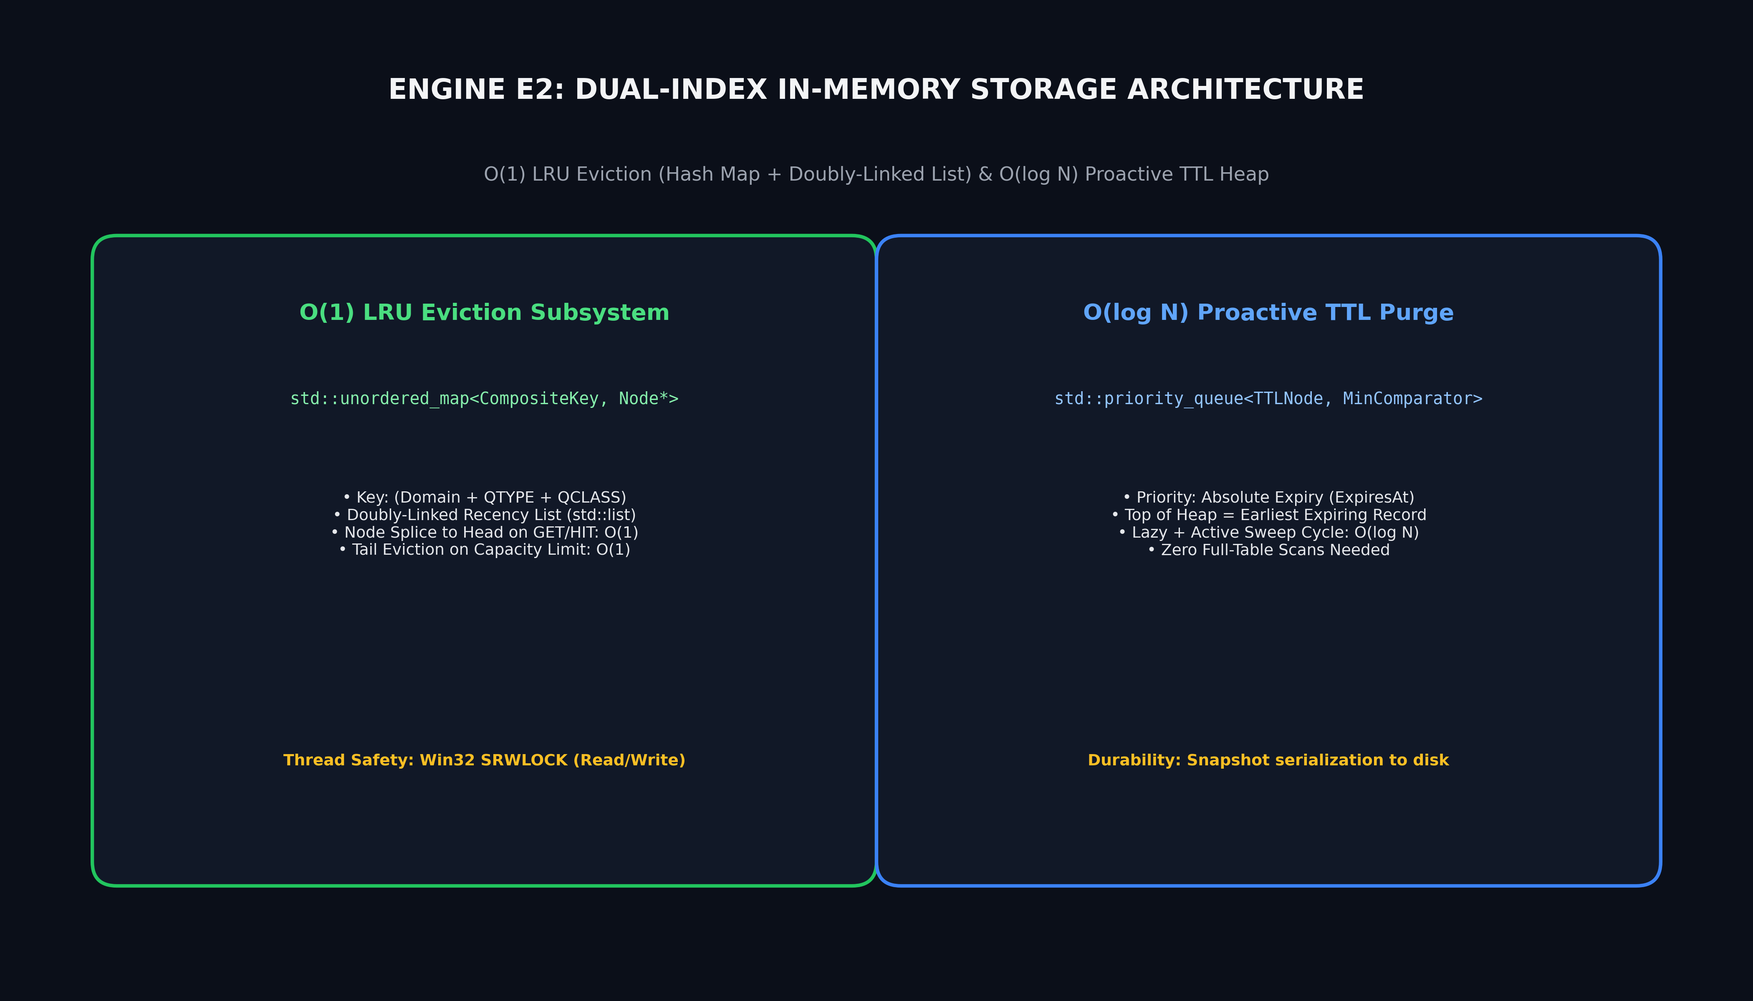
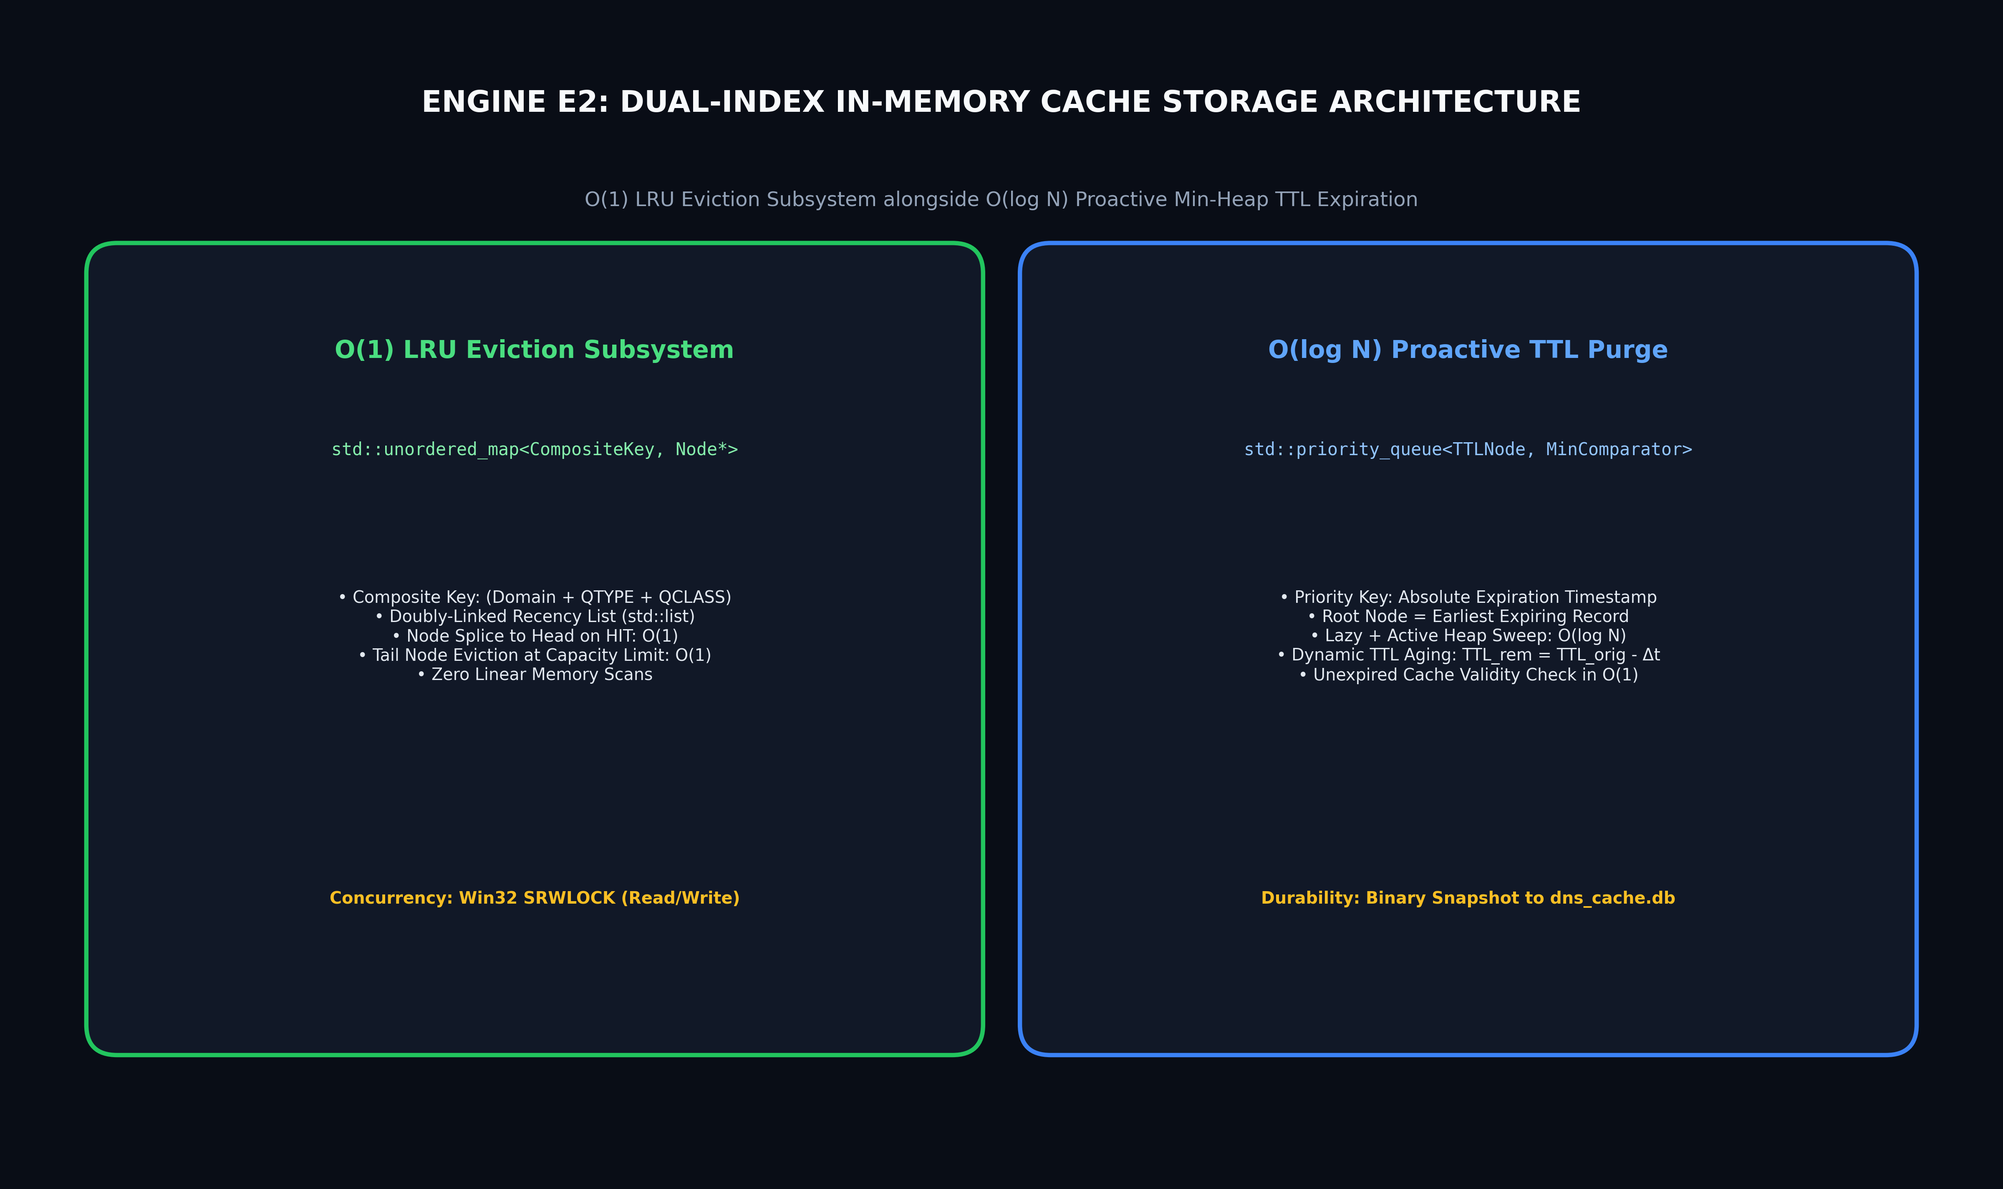
docs: generate 5 ultra-high-resolution 300-DPI diagrams in diagrams/ and update guides

diff --git a/generate_all_highres_diagrams.py b/generate_all_highres_diagrams.py
@@ -1,0 +1,297 @@
+import matplotlib.pyplot as plt
+import matplotlib.patches as patches
+import numpy as np
+import os
+import shutil
+
+# Ensure output directories exist
+os.makedirs('diagrams', exist_ok=True)
+os.makedirs('docs/diagrams', exist_ok=True)
+
+# -----------------------------------------------------------------------------
+# 1. ULTRA HIGH-RES SYSTEM ORBIT ARCHITECTURE DIAGRAM
+# -----------------------------------------------------------------------------
+fig, ax = plt.subplots(figsize=(16, 12), facecolor='#090D16', dpi=300)
+ax.set_facecolor('#090D16')
+ax.set_xlim(-16, 16)
+ax.set_ylim(-13, 13)
+ax.axis('off')
+
+# Main Header
+ax.text(0, 11.8, "DNS RESOLVER & CACHING SERVER — SYSTEM ORBIT ARCHITECTURE", 
+        color='#F8FAFC', fontsize=19, fontweight='bold', ha='center', va='center')
+ax.text(0, 10.9, "C++ Core Engine Decomposition (PES University S1 Handbook Aligned)", 
+        color='#94A3B8', fontsize=12.5, ha='center', va='center')
+
+# Orbit rings with glow effect
+orbit1 = plt.Circle((0, 0), 7.0, color='#1E293B', fill=False, linestyle='--', linewidth=2.2, alpha=0.8)
+orbit2 = plt.Circle((0, 0), 11.2, color='#334155', fill=False, linestyle=':', linewidth=1.8, alpha=0.6)
+ax.add_patch(orbit1)
+ax.add_patch(orbit2)
+
+# Central Core: Engine E4 VM
+core_circle = plt.Circle((0, 0), 3.4, color='#1E1B4B', ec='#6366F1', linewidth=3.5, zorder=3)
+ax.add_patch(core_circle)
+ax.text(0, 1.4, "ENGINE E4 (CORE)", color='#818CF8', fontsize=12, fontweight='bold', ha='center', va='center', zorder=4)
+ax.text(0, 0.5, "Query Execution VM", color='#FFFFFF', fontsize=15, fontweight='bold', ha='center', va='center', zorder=4)
+ax.text(0, -0.6, "6-Stage Instruction Pipeline\nFETCH ➔ DECODE ➔ LOOKUP\nRESOLVE ➔ COMMIT ➔ EMIT", 
+        color='#C7D2FE', fontsize=10, ha='center', va='center', zorder=4)
+ax.text(0, -2.1, "[Worker Thread Pool Dispatcher]", color='#A5B4FC', fontsize=9, fontstyle='italic', ha='center', va='center', zorder=4)
+
+# Satellites on Orbit 1
+satellites = [
+    {
+        "name": "ENGINE E1\nProtocol Parsing Engine",
+        "detail": "• RFC 1035 Wire Unpacker\n• Label Pointer Decompression\n  (Loop Guard Depth <= 16)\n• Endianness (htons/ntohs)\n• Response Wire Serializer",
+        "angle": 135, "color": "#064E3B", "ec": "#10B981", "badge": "Owner: Vageesh Mathad", "badge_col": "#34D399"
+    },
+    {
+        "name": "ENGINE E2\nIn-Memory Storage & Cache",
+        "detail": "• Hash Table + Doubly-Linked List\n  (O(1) LRU Eviction)\n• Min-Heap Priority Queue\n  (O(log N) Proactive TTL Purge)\n• Dynamic TTL Aging (TTL_orig - Δt)\n• Win32 SRWLOCK Concurrency",
+        "angle": 45, "color": "#14532D", "ec": "#22C55E", "badge": "Owner: Mehak Sayed Yusuf", "badge_col": "#4ADE80"
+    },
+    {
+        "name": "ENGINE E3\nUpstream Resolution Engine",
+        "detail": "• Non-Blocking Sockets (select())\n• 2.0s Query Timeout Cap\n• Exponential Retry Backoff\n• Randomized 16-bit TxID Check\n• Kaminsky Poisoning Defense",
+        "angle": 225, "color": "#701A75", "ec": "#C026D3", "badge": "Owner: Ishani G", "badge_col": "#E879F9"
+    },
+    {
+        "name": "TELEMETRY & KPIs\nPerformance Subsystem",
+        "detail": "• Real-Time Hit Ratio Tracking\n• Microsecond Latency Histograms\n• Query Rate (QPS) Benchmarking\n• Live Console Status Dashboard",
+        "angle": 315, "color": "#7C2D12", "ec": "#EA580C", "badge": "Owner: Joel Biju", "badge_col": "#FB923C"
+    }
+]
+
+for sat in satellites:
+    rad = np.radians(sat["angle"])
+    x = 7.0 * np.cos(rad)
+    y = 7.0 * np.sin(rad)
+    
+    # Connecting vector line
+    ax.annotate("", xy=(x*0.48, y*0.48), xytext=(x*0.84, y*0.84),
+                arrowprops=dict(arrowstyle="<|-|>", color=sat["ec"], lw=2.2, mutation_scale=15))
+    
+    # Satellite box
+    box = patches.FancyBboxPatch((x - 3.0, y - 2.0), 6.0, 4.0,
+                                boxstyle="round,pad=0.35", fc=sat["color"], ec=sat["ec"], lw=2.5, zorder=5)
+    ax.add_patch(box)
+    ax.text(x, y + 1.3, sat["name"], color='#FFFFFF', fontsize=11.5, fontweight='bold', ha='center', va='center', zorder=6)
+    ax.text(x, y + 0.1, sat["detail"], color='#E2E8F0', fontsize=8.5, ha='center', va='center', zorder=6)
+    ax.text(x, y - 1.45, sat["badge"], color=sat["badge_col"], fontsize=9, fontweight='bold', ha='center', va='center', zorder=6)
+
+# Outer Actors (Orbit 2)
+# DNS Client
+c_x, c_y = -11.6, 0
+client_box = patches.FancyBboxPatch((c_x - 2.6, c_y - 1.5), 5.2, 3.0,
+                                    boxstyle="round,pad=0.25", fc='#0F172A', ec='#38BDF8', lw=2.5, zorder=5)
+ax.add_patch(client_box)
+ax.text(c_x, c_y + 0.7, "DNS CLIENTS", color='#38BDF8', fontsize=12, fontweight='bold', ha='center', va='center', zorder=6)
+ax.text(c_x, c_y - 0.4, "Standard DNS Tools\n(dig / nslookup / stub)\nUDP Port 8053", color='#94A3B8', fontsize=9.5, ha='center', va='center', zorder=6)
+
+# External Upstream DNS
+u_x, u_y = 11.6, 0
+up_box = patches.FancyBboxPatch((u_x - 2.6, u_y - 1.5), 5.2, 3.0,
+                               boxstyle="round,pad=0.25", fc='#0F172A', ec='#F43F5E', lw=2.5, zorder=5)
+ax.add_patch(up_box)
+ax.text(u_x, u_y + 0.7, "UPSTREAM DNS", color='#F43F5E', fontsize=12, fontweight='bold', ha='center', va='center', zorder=6)
+ax.text(u_x, u_y - 0.4, "Recursive Resolvers\n(8.8.8.8 / 1.1.1.1)\nUDP Port 53", color='#94A3B8', fontsize=9.5, ha='center', va='center', zorder=6)
+
+# Disk Persistence
+d_x, d_y = 0, -11.0
+disk_box = patches.FancyBboxPatch((d_x - 3.0, d_y - 1.1), 6.0, 2.2,
+                                 boxstyle="round,pad=0.25", fc='#0F172A', ec='#EAB308', lw=2.5, zorder=5)
+ax.add_patch(disk_box)
+ax.text(d_x, d_y + 0.4, "DISK SNAPSHOT (dns_cache.db)", color='#EAB308', fontsize=11, fontweight='bold', ha='center', va='center', zorder=6)
+ax.text(d_x, d_y - 0.4, "Graceful Dump on SIGINT & Boot Warm-up", color='#94A3B8', fontsize=8.5, ha='center', va='center', zorder=6)
+
+# Flow connection arrows
+ax.annotate("", xy=(-3.4, 0), xytext=(-9.0, 0),
+            arrowprops=dict(arrowstyle="<|-|>", color='#38BDF8', lw=2.5, mutation_scale=16))
+ax.annotate("", xy=(9.0, 0), xytext=(4.5, -4.2),
+            arrowprops=dict(arrowstyle="<|-|>", color='#F43F5E', lw=2.5, mutation_scale=16))
+ax.annotate("", xy=(0, -9.9), xytext=(0, -3.4),
+            arrowprops=dict(arrowstyle="<|-|>", color='#EAB308', lw=2.2, linestyle='--', mutation_scale=16))
+
+plt.tight_layout()
+plt.savefig('diagrams/system_orbit_diagram.png', dpi=300, facecolor=fig.get_facecolor(), edgecolor='none')
+plt.close()
+
+# -----------------------------------------------------------------------------
+# 2. ULTRA HIGH-RES 6-STAGE VM PIPELINE DIAGRAM
+# -----------------------------------------------------------------------------
+fig, ax = plt.subplots(figsize=(17, 7.5), facecolor='#090D16', dpi=300)
+ax.set_facecolor('#090D16')
+ax.set_xlim(0, 18)
+ax.set_ylim(0, 8)
+ax.axis('off')
+
+ax.text(9, 7.2, "ENGINE E4: QUERY EXECUTION VM — 6-STAGE INSTRUCTION PIPELINE", 
+        color='#F8FAFC', fontsize=17, fontweight='bold', ha='center', va='center')
+ax.text(9, 6.4, "Deterministic Lifecycle & State Machine for Every Inbound DNS Query", 
+        color='#94A3B8', fontsize=11.5, ha='center', va='center')
+
+stages = [
+    {"num": "STAGE 1", "name": "FETCH", "desc": "• Datagram Ingestion\n• Port 8053 UDP Socket\n• Heap Buffer Isolation\n• Enqueue to Workers", "col": "#0284C7", "eng": "Reactor Loop"},
+    {"num": "STAGE 2", "name": "DECODE", "desc": "• 12-byte Header Parse\n• QNAME Label Decode\n• Loop Guard (Depth <= 16)\n• FORMERR on Malformed", "col": "#059669", "eng": "Engine E1"},
+    {"num": "STAGE 3", "name": "LOOKUP", "desc": "• Key: (Domain, Type, Class)\n• SRWLOCK Shared Read\n• Dynamic TTL Recalculate\n• LRU Node Promotion", "col": "#16A34A", "eng": "Engine E2"},
+    {"num": "STAGE 4", "name": "RESOLVE", "desc": "• On Cache Miss / Expire\n• Forward 8.8.8.8 UDP\n• Non-blocking select()\n• Kaminsky TxID Validate", "col": "#9333EA", "eng": "Engine E3"},
+    {"num": "STAGE 5", "name": "COMMIT", "desc": "• SRWLOCK Exclusive Write\n• Insert Hash Map + LRU Head\n• Min-Heap Expiration Push\n• O(1) Tail Eviction at Cap", "col": "#D97706", "eng": "Engine E2"},
+    {"num": "STAGE 6", "name": "EMIT", "desc": "• RFC 1035 Response Build\n• 0xC00C Compression\n• Transmit via sendto()\n• Telemetry Timing Record", "col": "#E11D48", "eng": "Engine E1"}
+]
+
+box_w = 2.4
+gap = 0.45
+start_x = 0.75
+
+for i, st in enumerate(stages):
+    bx = start_x + i * (box_w + gap)
+    by = 1.6
+    
+    p = patches.FancyBboxPatch((bx, by), box_w, 4.0, boxstyle="round,pad=0.2",
+                               fc='#111827', ec=st["col"], lw=2.8)
+    ax.add_patch(p)
+    
+    ax.text(bx + box_w/2, by + 3.4, st["num"], color=st["col"], fontsize=10, fontweight='bold', ha='center')
+    ax.text(bx + box_w/2, by + 2.8, st["name"], color='#FFFFFF', fontsize=14, fontweight='bold', ha='center')
+    ax.text(bx + box_w/2, by + 1.5, st["desc"], color='#CBD5E1', fontsize=8.5, ha='center', va='center')
+    ax.text(bx + box_w/2, by + 0.45, f"[{st['eng']}]", color=st["col"], fontsize=8.5, fontstyle='italic', ha='center')
+    
+    if i < len(stages) - 1:
+        ax.annotate("", xy=(bx + box_w + gap - 0.05, by + 2.0), xytext=(bx + box_w + 0.05, by + 2.0),
+                    arrowprops=dict(arrowstyle="-|>", color='#64748B', lw=2.5, mutation_scale=15))
+
+plt.tight_layout()
+plt.savefig('diagrams/engine_pipeline_diagram.png', dpi=300, facecolor=fig.get_facecolor(), edgecolor='none')
+plt.close()
+
+# -----------------------------------------------------------------------------
+# 3. ULTRA HIGH-RES CACHE DUAL-INDEX ARCHITECTURE DIAGRAM
+# -----------------------------------------------------------------------------
+fig, ax = plt.subplots(figsize=(16, 9.5), facecolor='#090D16', dpi=300)
+ax.set_facecolor('#090D16')
+ax.set_xlim(0, 16)
+ax.set_ylim(0, 9.5)
+ax.axis('off')
+
+ax.text(8, 8.8, "ENGINE E2: DUAL-INDEX IN-MEMORY CACHE STORAGE ARCHITECTURE", 
+        color='#F8FAFC', fontsize=17, fontweight='bold', ha='center', va='center')
+ax.text(8, 8.0, "O(1) LRU Eviction Subsystem alongside O(log N) Proactive Min-Heap TTL Expiration", 
+        color='#94A3B8', fontsize=11.5, ha='center', va='center')
+
+# Left Box: Hash Map + Doubly-Linked List
+box1 = patches.FancyBboxPatch((0.8, 1.2), 6.8, 6.2, boxstyle="round,pad=0.25",
+                             fc='#111827', ec='#22C55E', lw=2.5)
+ax.add_patch(box1)
+ax.text(4.2, 6.7, "O(1) LRU Eviction Subsystem", color='#4ADE80', fontsize=14, fontweight='bold', ha='center')
+ax.text(4.2, 5.9, "std::unordered_map<CompositeKey, Node*>", color='#86EFAC', fontsize=10, family='monospace', ha='center')
+ax.text(4.2, 4.4, "• Composite Key: (Domain + QTYPE + QCLASS)\n• Doubly-Linked Recency List (std::list)\n• Node Splice to Head on HIT: O(1)\n• Tail Node Eviction at Capacity Limit: O(1)\n• Zero Linear Memory Scans", 
+        color='#E2E8F0', fontsize=9.5, ha='center', va='center')
+ax.text(4.2, 2.2, "Concurrency: Win32 SRWLOCK (Read/Write)", color='#FBBF24', fontsize=9.5, fontweight='bold', ha='center')
+
+# Right Box: Min-Heap TTL Expiration
+box2 = patches.FancyBboxPatch((8.4, 1.2), 6.8, 6.2, boxstyle="round,pad=0.25",
+                             fc='#111827', ec='#3B82F6', lw=2.5)
+ax.add_patch(box2)
+ax.text(11.8, 6.7, "O(log N) Proactive TTL Purge", color='#60A5FA', fontsize=14, fontweight='bold', ha='center')
+ax.text(11.8, 5.9, "std::priority_queue<TTLNode, MinComparator>", color='#93C5FD', fontsize=10, family='monospace', ha='center')
+ax.text(11.8, 4.4, "• Priority Key: Absolute Expiration Timestamp\n• Root Node = Earliest Expiring Record\n• Lazy + Active Heap Sweep: O(log N)\n• Dynamic TTL Aging: TTL_rem = TTL_orig - Δt\n• Unexpired Cache Validity Check in O(1)", 
+        color='#E2E8F0', fontsize=9.5, ha='center', va='center')
+ax.text(11.8, 2.2, "Durability: Binary Snapshot to dns_cache.db", color='#FBBF24', fontsize=9.5, fontweight='bold', ha='center')
+
+plt.tight_layout()
+plt.savefig('diagrams/cache_lru_minheap_diagram.png', dpi=300, facecolor=fig.get_facecolor(), edgecolor='none')
+plt.close()
+
+# -----------------------------------------------------------------------------
+# 4. ULTRA HIGH-RES WIRE PROTOCOL & DECOMPRESSION DIAGRAM
+# -----------------------------------------------------------------------------
+fig, ax = plt.subplots(figsize=(16, 9.5), facecolor='#090D16', dpi=300)
+ax.set_facecolor('#090D16')
+ax.set_xlim(0, 16)
+ax.set_ylim(0, 9.5)
+ax.axis('off')
+
+ax.text(8, 8.8, "ENGINE E1: RFC 1035 WIRE PROTOCOL & POINTER DECOMPRESSION", 
+        color='#F8FAFC', fontsize=17, fontweight='bold', ha='center', va='center')
+ax.text(8, 8.0, "12-Byte Header Bitfields, Big-Endian Packing, and 16-Depth Cyclic Loop Guard", 
+        color='#94A3B8', fontsize=11.5, ha='center', va='center')
+
+# Left Box: DNS Header Layout
+h_box = patches.FancyBboxPatch((0.8, 1.2), 6.8, 6.2, boxstyle="round,pad=0.25",
+                              fc='#111827', ec='#06B6D4', lw=2.5)
+ax.add_patch(h_box)
+ax.text(4.2, 6.7, "RFC 1035 12-Byte Header Bitfields", color='#22D3EE', fontsize=13.5, fontweight='bold', ha='center')
+ax.text(4.2, 5.0, "Bytes 0-1: Transaction ID (16-bit matching)\nBytes 2-3: Flags (QR, Opcode, AA, TC, RD, RA, RCODE)\nBytes 4-5: QDCOUNT (Question Count = 1)\nBytes 6-7: ANCOUNT (Answer Count)\nBytes 8-9: NSCOUNT (Authority Count)\nBytes 10-11: ARCOUNT (Additional Count)", 
+        color='#E2E8F0', fontsize=9.5, family='monospace', ha='center', va='center')
+ax.text(4.2, 2.2, "Endianness: Big-Endian Wire Network Byte Order", color='#38BDF8', fontsize=9.5, fontweight='bold', ha='center')
+
+# Right Box: Pointer Decompression & Security Guard
+p_box = patches.FancyBboxPatch((8.4, 1.2), 6.8, 6.2, boxstyle="round,pad=0.25",
+                              fc='#111827', ec='#F43F5E', lw=2.5)
+ax.add_patch(p_box)
+ax.text(11.8, 6.7, "Label Pointer Decompression & Security", color='#FB7185', fontsize=13.5, fontweight='bold', ha='center')
+ax.text(11.8, 5.0, "• Normal Label: 1-byte length L followed by L chars\n• Compression Pointer: 2 bytes starting with 0xC0\n• 14-bit Pointer Offset: (byte[0] & 0x3F) << 8 | byte[1]\n• 0xC00C: Points to offset 12 (QNAME in Question)\n• Recursion Guard: Max dereference depth = 16\n• Cyclic Pointer Loop: Detected -> FORMERR (RCODE 1)", 
+        color='#E2E8F0', fontsize=9.5, family='monospace', ha='center', va='center')
+ax.text(11.8, 2.2, "Security: Defeats Denial-of-Service Loop Exploits", color='#FDA4AF', fontsize=9.5, fontweight='bold', ha='center')
+
+plt.tight_layout()
+plt.savefig('diagrams/wire_protocol_format_diagram.png', dpi=300, facecolor=fig.get_facecolor(), edgecolor='none')
+plt.close()
+
+# -----------------------------------------------------------------------------
+# 5. ULTRA HIGH-RES CONCURRENCY & THREAD POOL DIAGRAM
+# -----------------------------------------------------------------------------
+fig, ax = plt.subplots(figsize=(16, 9.5), facecolor='#090D16', dpi=300)
+ax.set_facecolor('#090D16')
+ax.set_xlim(0, 16)
+ax.set_ylim(0, 9.5)
+ax.axis('off')
+
+ax.text(8, 8.8, "CONCURRENCY ENGINE: NETWORK REACTOR & WORKER THREAD POOL", 
+        color='#F8FAFC', fontsize=17, fontweight='bold', ha='center', va='center')
+ax.text(8, 8.0, "Multi-Threaded Architecture with Isolated Packet Slices and Win32 SRWLOCK", 
+        color='#94A3B8', fontsize=11.5, ha='center', va='center')
+
+# Reactor Box
+r_box = patches.FancyBboxPatch((0.8, 1.2), 4.2, 6.2, boxstyle="round,pad=0.25",
+                              fc='#111827', ec='#818CF8', lw=2.5)
+ax.add_patch(r_box)
+ax.text(2.9, 6.7, "Network Reactor Thread", color='#A5B4FC', fontsize=13, fontweight='bold', ha='center')
+ax.text(2.9, 4.8, "• Winsock2 UDP Socket\n• Bound to 127.0.0.1:8053\n• Non-blocking recvfrom()\n• Buffer Isolation:\n  Copies 512-byte slice\n  to prevent data race\n• Enqueues Task to Pool", 
+        color='#E2E8F0', fontsize=9.5, ha='center', va='center')
+ax.text(2.9, 2.2, "Main Event Loop", color='#C7D2FE', fontsize=9.5, fontstyle='italic', ha='center')
+
+# Queue & Thread Pool Box
+t_box = patches.FancyBboxPatch((5.6, 1.2), 4.8, 6.2, boxstyle="round,pad=0.25",
+                              fc='#111827', ec='#F59E0B', lw=2.5)
+ax.add_patch(t_box)
+ax.text(8.0, 6.7, "Worker Thread Pool", color='#FBBF24', fontsize=13, fontweight='bold', ha='center')
+ax.text(8.0, 4.8, "• Thread-Safe Task Queue\n• Mutex + Condition Variable\n• Pool of N Worker Threads\n• Concurrent Pipeline Exec:\n  Worker 1: Query A\n  Worker 2: Query B\n  Worker N: Query ...\n• 0% Socket Buffer Overrun", 
+        color='#E2E8F0', fontsize=9.5, ha='center', va='center')
+ax.text(8.0, 2.2, "High-Throughput Concurrency", color='#FDE68A', fontsize=9.5, fontstyle='italic', ha='center')
+
+# Synchronization Box
+s_box = patches.FancyBboxPatch((11.0, 1.2), 4.2, 6.2, boxstyle="round,pad=0.25",
+                              fc='#111827', ec='#10B981', lw=2.5)
+ax.add_patch(s_box)
+ax.text(13.1, 6.7, "Synchronization (SRWLOCK)", color='#34D399', fontsize=13, fontweight='bold', ha='center')
+ax.text(13.1, 4.8, "• Win32 Slim Reader/Writer\n• Shared Read Lock:\n  Concurrent Cache GETs\n• Exclusive Write Lock:\n  Atomic Cache SET / Evict\n• Zero Race Conditions\n• Minimal Lock Contention", 
+        color='#E2E8F0', fontsize=9.5, ha='center', va='center')
+ax.text(13.1, 2.2, "100% Thread Safety", color='#6EE7B7', fontsize=9.5, fontstyle='italic', ha='center')
+
+# Connecting arrows
+ax.annotate("", xy=(5.5, 4.3), xytext=(5.1, 4.3),
+            arrowprops=dict(arrowstyle="-|>", color='#F59E0B', lw=2.5, mutation_scale=15))
+ax.annotate("", xy=(10.9, 4.3), xytext=(10.5, 4.3),
+            arrowprops=dict(arrowstyle="<|-|>", color='#10B981', lw=2.5, mutation_scale=15))
+
+plt.tight_layout()
+plt.savefig('diagrams/concurrency_threadpool_diagram.png', dpi=300, facecolor=fig.get_facecolor(), edgecolor='none')
+plt.close()
+
+# Mirror all generated diagrams to docs/diagrams as well
+for f in os.listdir('diagrams'):
+    if f.endswith('.png'):
+        shutil.copy(os.path.join('diagrams', f), os.path.join('docs/diagrams', f))
+
+print("ALL_5_HIGHRES_DIAGRAMS_GENERATED_SUCCESSFULLY")

diff --git a/CONTEXT.md b/CONTEXT.md
@@ -44,12 +44,15 @@ a:/dns-resolver-caching-server/
 │   ├── Gate_0_team11_ppt.pptx
 │   ├── Team11_Gate1.pptx
 │   └── Team11_S1_Student_Handbook.docx
+├── diagrams/                                  # [PRIMARY HIGH-RES ASSETS - 300 DPI]
+│   ├── system_orbit_diagram.png               # Orbit architecture graphic (766 KB)
+│   ├── engine_pipeline_diagram.png            # 6-stage instruction pipeline graphic (348 KB)
+│   ├── cache_lru_minheap_diagram.png          # Dual-index O(1) LRU + O(log N) TTL (345 KB)
+│   ├── wire_protocol_format_diagram.png       # 12-byte header + pointer loop guard (390 KB)
+│   └── concurrency_threadpool_diagram.png     # Reactor, Thread Pool & SRWLOCK (407 KB)
 ├── docs/
-│   └── diagrams/                              # Generated high-resolution architectural assets
-│       ├── generate_diagrams.py               # Standalone diagram generator script
-│       ├── system_orbit_diagram.png           # Orbit architecture graphic
-│       ├── engine_pipeline_diagram.png        # 6-stage instruction pipeline graphic
-│       └── cache_lru_minheap_diagram.png      # O(1) LRU + O(log N) Min-Heap diagram
+│   ├── CPP_MASTER_PLAN.md                     # Synchronized Master Plan
+│   └── diagrams/                              # Mirrored architectural assets
 ├── include/
 │   └── common.hpp                             # RFC 1035 constants, RAII Mutex & SRWLOCK wrappers
 ├── src/                                       # (Will contain engine implementations)

diff --git a/DOCUMENTATION/CPP_MASTER_PLAN_GUIDE.md b/DOCUMENTATION/CPP_MASTER_PLAN_GUIDE.md
@@ -171,6 +171,9 @@ flowchart LR
 
 Engine E1 handles the raw binary serialization and deserialization compliant with **RFC 1035**.
 
+### Wire Protocol & Decompression Diagram
+![RFC 1035 Wire Format & Decompression](../diagrams/wire_protocol_format_diagram.png)
+
 ### DNS 12-Byte Header Wire Structure
 ```
  0                   1                   2                   3
@@ -213,6 +216,9 @@ sequenceDiagram
 ## 6. Visual Concurrency & Thread Pool Architecture
 
 Engine E4 dispatches client requests concurrently using an OS worker thread pool to sustain high query volume without socket drops.
+
+### Concurrency & Thread Pool Architecture Diagram
+![Concurrency & Thread Pool Architecture](../diagrams/concurrency_threadpool_diagram.png)
 
 ```mermaid
 flowchart TD

diff --git a/docs/CPP_MASTER_PLAN.md b/docs/CPP_MASTER_PLAN.md
@@ -154,6 +154,9 @@ flowchart LR
 
 Engine E1 handles the raw binary serialization and deserialization compliant with **RFC 1035**.
 
+### Wire Protocol & Decompression Diagram
+![RFC 1035 Wire Format & Decompression](../diagrams/wire_protocol_format_diagram.png)
+
 ### DNS 12-Byte Header Wire Structure
 ```
  0                   1                   2                   3
@@ -196,6 +199,9 @@ sequenceDiagram
 ## 6. Visual Concurrency & Thread Pool Architecture
 
 Engine E4 dispatches client requests concurrently using an OS worker thread pool to sustain high query volume without socket drops.
+
+### Concurrency & Thread Pool Architecture Diagram
+![Concurrency & Thread Pool Architecture](../diagrams/concurrency_threadpool_diagram.png)
 
 ```mermaid
 flowchart TD
